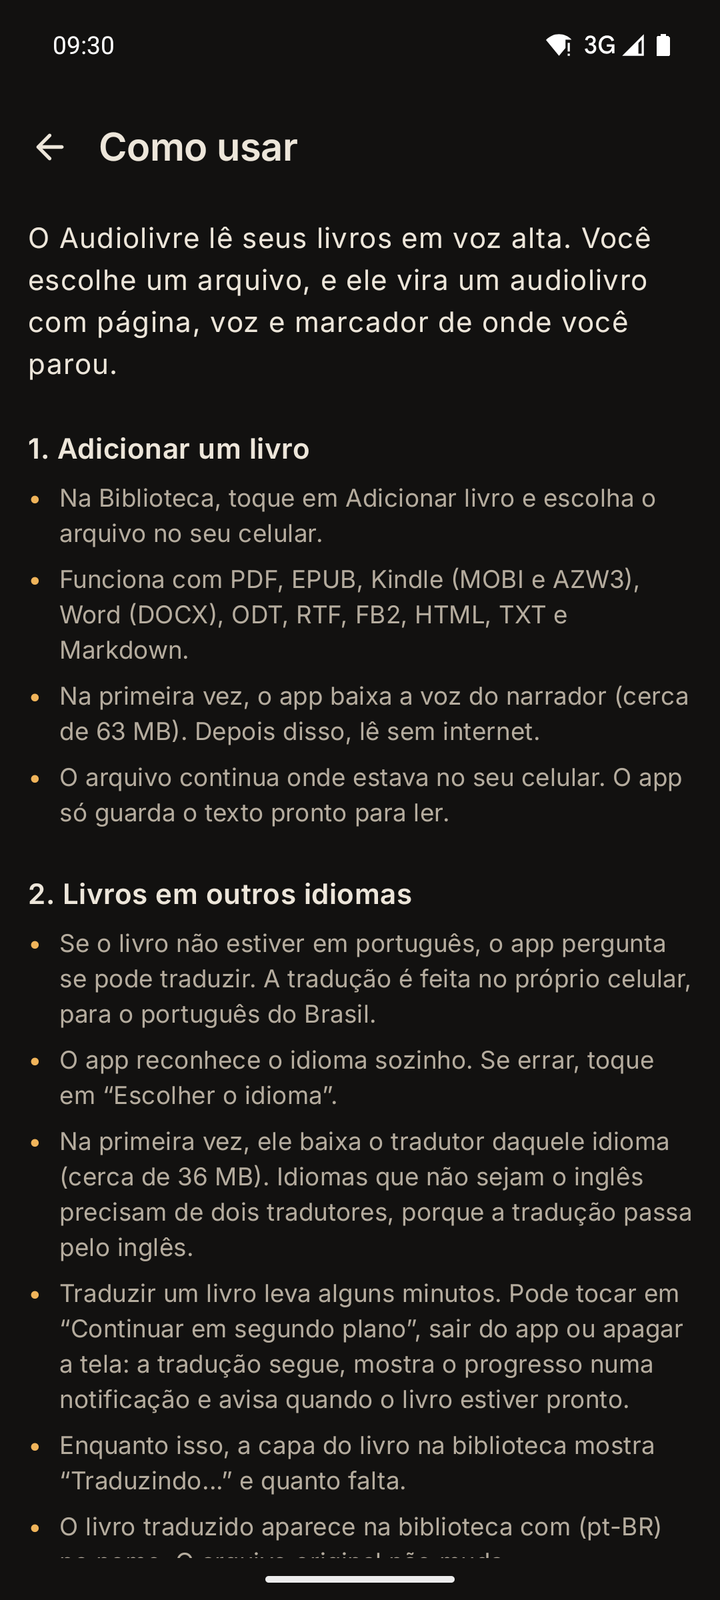
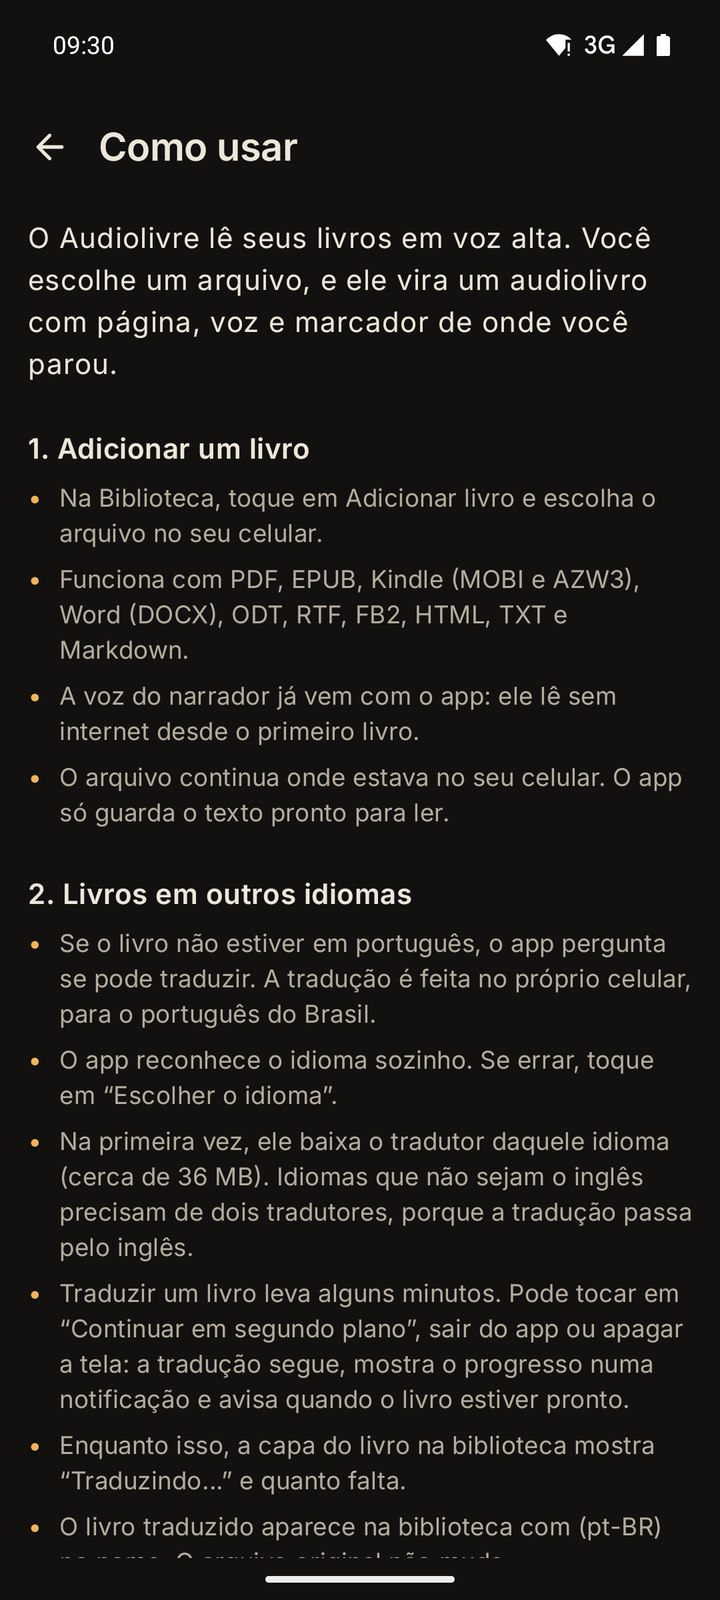
Audiolivre 1.1: voz do narrador embutida no app
O Faber agora vem dentro do APK, então o primeiro livro toca na hora,
sem download e sem internet. As outras vozes e os tradutores continuam
sendo baixados sob demanda.

- O build baixa o pacote do Faber da release tts-models do sherpa-onnx,
  confere o SHA-256 e embute o modelo (sem compressão, lido direto do
  APK) e os dados do eSpeak NG
- Os dados do eSpeak vão inteiros: com só o dicionário português o
  eSpeak quebra no Android, porque ele empresta palavras de outros
  idiomas
- Quem atualiza da 1.0 recupera os 61 MB do Faber baixado
- R8 ligado no release e tabelas pós-quânticas do BouncyCastle
  removidas: o código compilado caiu de ~30 MB para 3,5 MB
- Tela Voz, manual, README, CONTRIBUTING e docs/MODELS.md atualizados

Changed region(s): [[0.0917, 0.4062, 0.8556, 0.4688], [0.8861, 0.4062, 0.9167, 0.4375]]

diff --git a/app/src/main/java/io/github/fanti1/audiolivre/tts/ModelDownloader.kt b/app/src/main/java/io/github/fanti1/audiolivre/tts/ModelDownloader.kt
@@ -21,8 +21,8 @@ class ModelDownloader(private val context: Context) {
     fun voiceDir(voice: VoiceModel): File =
         File(context.filesDir, "tts/${voice.id}")
 
-    // The espeak-ng pronunciation data ships inside every voice archive and is identical, so the first voice
-    // installed keeps it for all of them: 18 MB once instead of 18 MB per voice.
+    // The espeak-ng pronunciation data is the same for every voice, so one copy serves all of them. It comes with
+    // the app (18 MB); the copy inside each downloaded archive is thrown away.
     fun sharedDataDir(): File = File(context.filesDir, "tts/${VoiceModels.SHARED_DATA_DIR}")
 
     val voicesDir: File get() = File(context.filesDir, "tts")
@@ -31,7 +31,35 @@ class ModelDownloader(private val context: Context) {
 
     // A model split across several files is only usable once every file is extracted, so a marker
     // written last (not the presence of any one file) decides whether the download finished.
-    fun isDownloaded(voice: VoiceModel): Boolean = File(voiceDir(voice), COMPLETE_MARKER).exists()
+    fun isDownloaded(voice: VoiceModel): Boolean = voice.bundled || File(voiceDir(voice), COMPLETE_MARKER).exists()
+
+    // espeak-ng only reads its data from a real folder, so the APK's copy is unpacked once before the first voice
+    // loads. All of it: the Portuguese dictionary hands words to the English, French and Italian ones, and
+    // espeak-ng crashes on Android when one of those is missing. Data an earlier version kept from a downloaded
+    // voice is the same and stays. Those versions also downloaded the voices that now ship in the APK, which only
+    // take space now.
+    fun ensureSharedData() = synchronized(sharedDataLock) {
+        val shared = sharedDataDir()
+        val assetDir = "${VoiceModels.ASSETS_DIR}/${VoiceModels.SHARED_DATA_DIR}"
+        if (context.assets.list(assetDir).orEmpty().any { !File(shared, it).exists() }) {
+            val partial = File(voicesDir, "${VoiceModels.SHARED_DATA_DIR}.part")
+            partial.deleteRecursively()
+            copyAssets(assetDir, partial)
+            shared.deleteRecursively()
+            if (!partial.renameTo(shared)) throw IOException("Não foi possível instalar os dados de pronúncia")
+        }
+        VoiceModels.ALL.filter { it.bundled }.forEach { voiceDir(it).deleteRecursively() }
+    }
+
+    private fun copyAssets(path: String, destination: File) {
+        val children = context.assets.list(path).orEmpty()
+        if (children.isEmpty()) {
+            destination.parentFile?.mkdirs()
+            context.assets.open(path).use { input -> destination.outputStream().use { input.copyTo(it) } }
+        } else {
+            children.forEach { copyAssets("$path/$it", File(destination, it)) }
+        }
+    }
 
     fun sizeOnDiskMb(voice: VoiceModel): Int =
         (voiceDir(voice).walkTopDown().filter { it.isFile }.sumOf { it.length() } / 1_000_000).toInt()
@@ -46,6 +74,7 @@ class ModelDownloader(private val context: Context) {
         onProgress: (InstallProgress) -> Unit = {},
     ): File = runInterruptible(Dispatchers.IO) {
         val dir = voiceDir(voice)
+        ensureSharedData()
         if (isDownloaded(voice)) return@runInterruptible dir
 
         var last: InstallProgress? = null
@@ -66,7 +95,7 @@ class ModelDownloader(private val context: Context) {
             extractTarBz2(tempArchive, dir, stripRootDir = voice.archiveRootDirName) { done, total ->
                 report(InstallStage.INSTALLING, done, total)
             }
-            shareEspeakData(dir)
+            File(dir, VoiceModels.SHARED_DATA_DIR).deleteRecursively()
             File(dir, COMPLETE_MARKER).createNewFile()
             EventLog.record("voz ${voice.id} baixada")
         } catch (e: Exception) {
@@ -79,21 +108,8 @@ class ModelDownloader(private val context: Context) {
         dir
     }
 
-    private fun shareEspeakData(voiceDir: File) {
-        val bundled = File(voiceDir, VoiceModels.SHARED_DATA_DIR)
-        if (!bundled.isDirectory) return
-        val shared = sharedDataDir()
-        if (shared.isDirectory && (shared.listFiles()?.isNotEmpty() == true)) {
-            bundled.deleteRecursively()
-        } else {
-            shared.parentFile?.mkdirs()
-            shared.deleteRecursively()
-            if (!bundled.renameTo(shared)) bundled.copyRecursively(shared, overwrite = true).also { bundled.deleteRecursively() }
-        }
-    }
-
     fun deleteVoice(voice: VoiceModel) {
-        voiceDir(voice).deleteRecursively()
+        if (!voice.bundled) voiceDir(voice).deleteRecursively()
     }
 
     private fun downloadWithProgress(
@@ -180,6 +196,9 @@ class ModelDownloader(private val context: Context) {
         const val COMPLETE_MARKER = ".complete"
     }
 }
+
+// One app-wide lock: the reader and the voice screen each have their own ModelDownloader.
+private val sharedDataLock = Any()
 
 enum class InstallStage { DOWNLOADING, INSTALLING }
 

diff --git a/app/src/main/java/io/github/fanti1/audiolivre/tts/PiperEngine.kt b/app/src/main/java/io/github/fanti1/audiolivre/tts/PiperEngine.kt
@@ -1,5 +1,6 @@
 package io.github.fanti1.audiolivre.tts
 
+import android.content.res.AssetManager
 import android.util.Log
 import io.github.fanti1.audiolivre.data.EventLog
 import com.k2fsa.sherpa.onnx.GenerationConfig
@@ -22,6 +23,8 @@ private const val MAX_LOADED_VOICES = 3
 class PiperEngine(
     private val voicesDir: File,
     private val sharedDataDir: File,
+    // Where the bundled voices are read from, straight out of the APK.
+    private val assets: AssetManager,
     private val numThreads: Int = 4,
     // ONNX Runtime session settings, as sherpa-onnx reads them from a "cpu:<file>" provider (see VoiceMemoryMode).
     private val sessionConfig: File? = null,
@@ -34,7 +37,8 @@ class PiperEngine(
 
     fun sampleRate(): Int = VoiceModels.PLAYBACK_SAMPLE_RATE
 
-    fun isReady(voiceId: String): Boolean = File(File(voicesDir, voiceId), COMPLETE_MARKER).isFile
+    fun isReady(voiceId: String): Boolean =
+        VoiceModels.byId(voiceId)?.bundled == true || File(File(voicesDir, voiceId), COMPLETE_MARKER).isFile
 
     // One synthesis at a time: a cancelled playback's last sentence may still be running natively when the next
     // playback starts, and two of them must not share a model.
@@ -71,14 +75,22 @@ class PiperEngine(
 
     private fun engineFor(voice: VoiceModel): OfflineTts {
         loaded[voice.id]?.let { return it }
-        val dir = File(voicesDir, voice.id)
-        val model = dir.listFiles { f -> f.extension == "onnx" }?.firstOrNull()
-            ?: error("voice ${voice.id} is missing its model file")
+        // A bundled voice's paths are inside the APK; the pronunciation data and the session settings are always
+        // real files, whichever way the model is read.
+        val (model, tokens) = if (voice.bundled) {
+            val dir = "${VoiceModels.ASSETS_DIR}/${voice.id}"
+            "$dir/${VoiceModels.BUNDLED_MODEL}" to "$dir/tokens.txt"
+        } else {
+            val dir = File(voicesDir, voice.id)
+            val file = dir.listFiles { f -> f.extension == "onnx" }?.firstOrNull()
+                ?: error("voice ${voice.id} is missing its model file")
+            file.absolutePath to File(dir, "tokens.txt").absolutePath
+        }
         val config = OfflineTtsConfig(
             model = OfflineTtsModelConfig(
                 vits = OfflineTtsVitsModelConfig(
-                    model = model.absolutePath,
-                    tokens = File(dir, "tokens.txt").absolutePath,
+                    model = model,
+                    tokens = tokens,
                     dataDir = sharedDataDir.absolutePath,
                     noiseScale = voice.noiseScale,
                     noiseScaleW = voice.noiseScaleW,
@@ -91,7 +103,7 @@ class PiperEngine(
             // The pauses a listener hears all come from Prosody instead.
             silenceScale = 1f,
         )
-        val tts = OfflineTts(config = config)
+        val tts = OfflineTts(assetManager = if (voice.bundled) assets else null, config = config)
         loaded[voice.id] = tts
         EventLog.record("voz ${voice.id} carregada na memória (${loaded.size} carregadas)")
         // LinkedHashMap in access order: the first entry is the one untouched for longest.

diff --git a/app/src/main/java/io/github/fanti1/audiolivre/ui/VoiceSettingsActivity.kt b/app/src/main/java/io/github/fanti1/audiolivre/ui/VoiceSettingsActivity.kt
@@ -267,8 +267,8 @@ private fun VoiceScreen(
         verticalArrangement = Arrangement.spacedBy(12.dp),
     ) {
         Text(
-            "Todas as vozes são brasileiras e leem no aparelho, sem internet. Cada uma ocupa cerca de 63 MB e só " +
-                "é baixada quando você escolhe.",
+            "Todas as vozes são brasileiras e leem no aparelho, sem internet. O Faber já vem com o app; as outras " +
+                "ocupam cerca de 63 MB cada e só são baixadas quando você escolhe.",
             style = MaterialTheme.typography.bodyMedium,
             color = MaterialTheme.colorScheme.onSurfaceVariant,
             modifier = Modifier.padding(top = 8.dp),
@@ -435,7 +435,7 @@ private fun VoiceCard(
                     }
                 }
 
-                is VoiceState.Ready -> if (!selected) {
+                is VoiceState.Ready -> if (!selected && !voice.bundled) {
                     Spacer(Modifier.height(4.dp))
                     TextButton(onClick = onDelete) { Text("Apagar do aparelho") }
                 }
@@ -499,7 +499,7 @@ private fun TranslatorCard(id: String, bytes: Long, onDelete: () -> Unit) {
 }
 
 private fun stateSuffix(state: VoiceState, voice: VoiceModel): String = when (state) {
-    is VoiceState.Ready -> " · baixada"
+    is VoiceState.Ready -> if (voice.bundled) " · vem com o app" else " · baixada"
     is VoiceState.Missing -> " · ${voice.approxSizeMb} MB para baixar"
     is VoiceState.Downloading -> " · baixando"
     is VoiceState.Failed -> " · ${state.message}"

diff --git a/app/src/main/java/io/github/fanti1/audiolivre/tts/VoiceModel.kt b/app/src/main/java/io/github/fanti1/audiolivre/tts/VoiceModel.kt
@@ -20,6 +20,8 @@ data class VoiceModel(
     // out both more natural and easier to understand. See VoiceModels.NOISE_SCALE.
     val noiseScale: Float = VoiceModels.NOISE_SCALE,
     val noiseScaleW: Float = VoiceModels.NOISE_SCALE_W,
+    // Ships inside the APK (assets/tts/<id>/, see app/build.gradle.kts): never downloaded, never deleted.
+    val bundled: Boolean = false,
 ) {
     val downloadUrl: String
         get() = "https://github.com/k2-fsa/sherpa-onnx/releases/download/tts-models/$archiveName"
@@ -36,6 +38,7 @@ object VoiceModels {
         archiveName = "vits-piper-pt_BR-faber-medium.tar.bz2", approxSizeMb = 63, sampleRate = 22050,
         gender = VoiceGender.MALE,
         pace = 1.0f,
+        bundled = true,
     )
     val CADU = VoiceModel(
         id = "cadu", displayName = "Cadu", description = "Masculina, mais grave",
@@ -85,6 +88,10 @@ object VoiceModels {
 
     // espeak-ng data ships inside every voice archive; one copy serves all of them.
     const val SHARED_DATA_DIR = "espeak-ng-data"
+
+    // Where the APK keeps the bundled voices and the espeak-ng data.
+    const val ASSETS_DIR = "tts"
+    const val BUNDLED_MODEL = "model.onnx"
 
     fun byId(id: String): VoiceModel? = ALL.firstOrNull { it.id == id }
 

diff --git a/app/src/androidTest/java/io/github/fanti1/audiolivre/PiperEngineTest.kt b/app/src/androidTest/java/io/github/fanti1/audiolivre/PiperEngineTest.kt
@@ -12,14 +12,14 @@ import org.junit.Assume.assumeTrue
 import org.junit.Test
 import org.junit.runner.RunWith
 
-// Speaks on the device with the voices that happen to be installed. Skipped when none are, so a machine without
-// downloaded voices still runs the rest of the suite.
+// Speaks on the device with the voices that are installed: the narrator's always is, since it ships in the APK.
+// The test that needs a second voice is skipped when none was downloaded.
 @RunWith(AndroidJUnit4::class)
 class PiperEngineTest {
 
     private val context = InstrumentationRegistry.getInstrumentation().targetContext
-    private val downloader = ModelDownloader(context)
-    private val engine = PiperEngine(downloader.voicesDir, downloader.sharedDataDir())
+    private val downloader = ModelDownloader(context).apply { ensureSharedData() }
+    private val engine = PiperEngine(downloader.voicesDir, downloader.sharedDataDir(), context.assets)
     private val sentence = "Naquela noite, a cidade parecia diferente."
 
     @Test

diff --git a/app/src/main/java/io/github/fanti1/audiolivre/data/SupportReport.kt b/app/src/main/java/io/github/fanti1/audiolivre/data/SupportReport.kt
@@ -59,7 +59,7 @@ object SupportReport {
             appendLine("Narrador: ${voice.narratorVoice}; personagens: ${if (voice.characterVoices) "${voice.maleCharacterVoice} e ${voice.femaleCharacterVoice}" else "desligado"}")
             appendLine("Velocidade: ${voice.speed}×")
             val voices = VoiceModels.ALL.filter { downloader.isDownloaded(it) }
-            appendLine("Vozes baixadas: ${voices.joinToString { "${it.id} (${downloader.sizeOnDiskMb(it)} MB)" }.ifEmpty { "nenhuma" }}")
+            appendLine("Vozes instaladas: ${voices.joinToString { "${it.id} (${if (it.bundled) "vem no app" else "${downloader.sizeOnDiskMb(it)} MB"})" }}")
             appendLine("Ritmo de síntese: %.2f ms de trabalho por ms de fala; %d threads".format(pace.ratio, SynthesisPace.threadsFor(cores)))
             appendLine("Áudio preparado à frente: ${pace.aheadMs / 1000} s; antes de começar: ${pace.startBufferMs / 1000} s")
             appendLine("Vezes que o áudio esvaziou: ${pace.underruns}")

diff --git a/app/src/androidTest/java/io/github/fanti1/audiolivre/VoiceMemoryTest.kt b/app/src/androidTest/java/io/github/fanti1/audiolivre/VoiceMemoryTest.kt
@@ -20,7 +20,7 @@ import java.io.File
 class VoiceMemoryTest {
 
     private val context = InstrumentationRegistry.getInstrumentation().targetContext
-    private val downloader = ModelDownloader(context)
+    private val downloader = ModelDownloader(context).apply { ensureSharedData() }
 
     private val sentences = listOf(
         "Era uma vez um livro.",
@@ -51,7 +51,7 @@ class VoiceMemoryTest {
         for ((label, config) in modes + modes) {
             repeat(2) { System.gc() }
             val baseline = rssMb()
-            val engine = PiperEngine(downloader.voicesDir, downloader.sharedDataDir(), numThreads = 4, sessionConfig = config)
+            val engine = PiperEngine(downloader.voicesDir, downloader.sharedDataDir(), context.assets, numThreads = 4, sessionConfig = config)
             engine.warmUp(voice!!.id)
             val loaded = rssMb()
             var peak = loaded

diff --git a/app/src/main/java/io/github/fanti1/audiolivre/service/PlaybackService.kt b/app/src/main/java/io/github/fanti1/audiolivre/service/PlaybackService.kt
@@ -123,9 +123,11 @@ class PlaybackService : LifecycleService() {
             val mode = VoiceMemoryMode.choose(memory.totalMem, activities.isLowRamDevice, pace)
             pace.useLean(mode == VoiceMemoryMode.LEAN, VoiceMemoryMode.LEAN_SLOWDOWN)
             EventLog.record("motor de voz: $threads threads, memória ${mode.name.lowercase()} (${memory.totalMem / 1_000_000} MB de RAM)")
+            downloader.ensureSharedData()
             PiperEngine(
                 downloader.voicesDir,
                 downloader.sharedDataDir(),
+                applicationContext.assets,
                 numThreads = threads,
                 sessionConfig = mode.configFile(downloader.voicesDir),
             )

diff --git a/app/src/main/java/io/github/fanti1/audiolivre/ui/ReaderActivity.kt b/app/src/main/java/io/github/fanti1/audiolivre/ui/ReaderActivity.kt
@@ -346,7 +346,8 @@ private fun VoiceDownloadScreen(progress: InstallProgress?, onCancel: () -> Unit
             if (installing) {
                 "Descompactando o modelo no aparelho. Falta pouco."
             } else {
-                "São ${VoiceModels.DEFAULT_NARRATOR.approxSizeMb} MB, só desta vez. Depois o app lê sem internet."
+                // Only a narrator chosen in place of the bundled one ever gets here.
+                "São cerca de 63 MB, só desta vez. Depois o app lê sem internet."
             },
             style = MaterialTheme.typography.bodyMedium,
             color = MaterialTheme.colorScheme.onSurfaceVariant,

diff --git a/app/src/main/java/io/github/fanti1/audiolivre/ui/ManualActivity.kt b/app/src/main/java/io/github/fanti1/audiolivre/ui/ManualActivity.kt
@@ -44,7 +44,7 @@ private fun ColumnScope.ManualContent() {
     PolicySection("1. Adicionar um livro") {
         Bullet("Na Biblioteca, toque em Adicionar livro e escolha o arquivo no seu celular.")
         Bullet("Funciona com PDF, EPUB, Kindle (MOBI e AZW3), Word (DOCX), ODT, RTF, FB2, HTML, TXT e Markdown.")
-        Bullet("Na primeira vez, o app baixa a voz do narrador (cerca de 63 MB). Depois disso, lê sem internet.")
+        Bullet("A voz do narrador já vem com o app: ele lê sem internet desde o primeiro livro.")
         Bullet("O arquivo continua onde estava no seu celular. O app só guarda o texto pronto para ler.")
     }
 

diff --git a/README.md b/README.md
@@ -65,7 +65,7 @@ PDF, EPUB, Kindle, Word e mais. Grátis e de código aberto.
 
 | | |
 |---|---|
-| 📵 **Tudo no celular** | A voz é gerada no próprio aparelho. Depois de baixar a voz uma vez, funciona sem internet, até no modo avião. |
+| 📵 **Tudo no celular** | A voz é gerada no próprio aparelho e a do narrador já vem com o app. Funciona sem internet desde o primeiro livro, até no modo avião. |
 | 🎭 **Narração de verdade** | Pausas de narrador entre frases, parágrafos e capítulos, e vozes diferentes para personagens homens e mulheres. |
 | 🗣 **Lê como se fala** | "R$ 1.500,00" vira "mil e quinhentos reais", "Dom Pedro II" vira "Dom Pedro segundo". Nada de voz robótica soletrando símbolos. |
 | 🌎 **Qualquer idioma vira português** | Abriu um livro em inglês, espanhol ou alemão? O app traduz para o português do Brasil, no celular. |
@@ -87,7 +87,7 @@ flowchart LR
     E --> F["🎧 A voz lê em voz alta<br/>e a página acompanha"]
 ```
 
-Você só escolhe o livro e aperta ▶. A internet é usada uma única vez, para baixar a voz e, se o livro for de outro idioma, o tradutor.
+Você só escolhe o livro e aperta ▶. A voz do narrador já vem com o app. A internet só é usada se você quiser outras vozes ou se o livro for de outro idioma, para baixar o tradutor.
 
 ---
 
@@ -189,18 +189,18 @@ PDFs são feitos para imprimir, não para ler em voz alta. O app arruma isso ant
 
 ## 🎤 Vozes
 
-Todas em português do Brasil. Você ouve uma amostra antes de baixar e escolhe quem narra e quem faz as vozes dos personagens.
+Todas em português do Brasil. Você ouve uma amostra de cada uma e escolhe quem narra e quem faz as vozes dos personagens.
 
 | Voz | Estilo | Tamanho |
 |---|---|---|
-| **Faber** | Masculina, clara e firme *(narrador padrão)* | ~63 MB |
+| **Faber** | Masculina, clara e firme *(narrador padrão)* | já vem com o app |
 | **Cadu** | Masculina, mais grave *(personagens masculinos)* | ~63 MB |
 | **Dii** | Feminina *(personagens femininas)* | ~64 MB |
 | **Jeff** | Masculina, jovem | ~63 MB |
 | **Miro** | Masculina, grave e pausada | ~64 MB |
 | **Edresson** | Masculina, gravação mais simples | ~63 MB |
 
-Na primeira vez que você abre um livro, o app baixa **só a voz do narrador**. As outras você baixa quando quiser, na tela **Voz**. Até lá, os personagens falam com a voz do narrador.
+O **Faber** já vem instalado, então o primeiro livro começa a tocar na hora, sem download. As outras vozes você baixa quando quiser, na tela **Voz**. Até lá, os personagens falam com a voz do narrador.
 
 ---
 
@@ -210,7 +210,7 @@ Na primeira vez que você abre um livro, o app baixa **só a voz do narrador**. 
 2. Abra o arquivo baixado. Se o Android pedir, permita **"Instalar apps desconhecidos"** para o navegador ou para o gerenciador de arquivos.
 3. Se aparecer um aviso do **Play Protect**, toque em **"Mais detalhes" → "Instalar mesmo assim"**. Isso acontece com qualquer app instalado fora da Play Store.
 4. Abra o Audiolivre, toque em **Adicionar livro** e escolha um arquivo.
-5. Espere a voz do narrador baixar (só na primeira vez) e toque em ▶.
+5. Toque em ▶. A voz do narrador já vem com o app, não precisa baixar nada.
 
 **Para atualizar:** baixe o APK novo e instale por cima. Seus livros, posições de leitura e vozes continuam lá.
 
@@ -222,8 +222,8 @@ Na primeira vez que você abre um livro, o app baixa **só a voz do narrador**. 
 |---|---|
 | **Android** | 8.0 (Oreo) ou mais novo |
 | **Celular** | Qualquer celular dos últimos anos (precisa de processador de 64 bits, o que quase todos têm) |
-| **Espaço** | ~53 MB do app, mais ~63 MB por voz baixada e ~18 MB de dados de pronúncia (uma vez só) |
-| **Internet** | Só para baixar as vozes e, se precisar, os tradutores. Depois, funciona 100% offline |
+| **Espaço** | ~112 MB do app, já com a voz do narrador, mais ~63 MB para cada outra voz que você baixar |
+| **Internet** | Não precisa para ler. Só para baixar outras vozes e, se precisar, os tradutores |
 
 ---
 
@@ -231,7 +231,7 @@ Na primeira vez que você abre um livro, o app baixa **só a voz do narrador**. 
 
 - **Sem conta, sem anúncios e sem coleta de dados.**
 - Seus livros não saem do celular. Tudo acontece no aparelho, inclusive a voz e a tradução, e o app fica fora do backup automático do Android.
-- A internet só é usada para baixar as vozes, que vêm do GitHub, e os tradutores, que vêm da Mozilla (a mesma do Firefox). Nenhum dado seu vai junto.
+- A internet só é usada para baixar outras vozes, que vêm do GitHub, e os tradutores, que vêm da Mozilla (a mesma do Firefox). Nenhum dado seu vai junto.
 - O app pede apenas:
   - **Internet**, para baixar as vozes e os tradutores;
   - **Notificações**, para mostrar os controles enquanto o livro toca e o andamento da tradução;
@@ -253,7 +253,7 @@ Clássicos em domínio público estão no <a href="https://www.gutenberg.org/bro
 <details>
 <summary><b>Preciso de internet para ouvir?</b></summary>
 <br />
-Só na primeira vez, para baixar a voz do narrador (cerca de 80 MB, contando os dados de pronúncia). Depois disso, o app lê sem internet, até no modo avião.
+Não. A voz do narrador já vem com o app, então ele lê sem internet desde o primeiro livro, até no modo avião. A internet só é usada se você quiser baixar outras vozes ou traduzir um livro de outro idioma.
 </details>
 
 <details>

diff --git a/docs/MODELS.md b/docs/MODELS.md
@@ -1,6 +1,11 @@
 # Vozes (Piper via sherpa-onnx)
 
-O Audiolivre usa vozes **Piper** (modelos VITS) em português do Brasil, executadas no celular pelo [sherpa-onnx](https://github.com/k2-fsa/sherpa-onnx). Cada voz é baixada sob demanda da release `tts-models` do sherpa-onnx e guardada em `filesDir/tts/<voz>/`. Um arquivo `.complete` marca que o download terminou. Os dados de pronúncia do eSpeak NG (~18 MB), que vêm dentro de cada pacote de voz, são guardados uma vez só e compartilhados entre todas as vozes. Depois do download, o app funciona sem internet.
+O Audiolivre usa vozes **Piper** (modelos VITS) em português do Brasil, executadas no celular pelo [sherpa-onnx](https://github.com/k2-fsa/sherpa-onnx).
+
+- **Faber (narrador padrão) vem dentro do APK**, em `assets/tts/faber/`. O modelo fica sem compressão e o sherpa-onnx lê direto do APK, sem cópia no disco. O pacote é baixado no build (`BundleNarratorVoice` em `app/build.gradle.kts`) e conferido pelo SHA-256.
+- **As outras vozes** são baixadas sob demanda da release `tts-models` do sherpa-onnx e guardadas em `filesDir/tts/<voz>/`. Um arquivo `.complete` marca que o download terminou.
+- **Pronúncia (eSpeak NG):** os dados (18 MB) vão no APK e, na primeira leitura, são copiados para `filesDir/tts/espeak-ng-data/`, porque o eSpeak só lê de uma pasta de verdade. Uma cópia serve a todas as vozes, e a que vem em cada voz baixada é descartada. Quem atualiza de uma versão anterior mantém os dados que já tinha (são os mesmos) e perde só o Faber baixado, que ficou redundante.
+- **Os dados vão inteiros, sem cortar idiomas.** O dicionário português manda algumas palavras para os dicionários de inglês, francês e italiano, e o italiano manda para outros. Num teste com só o dicionário português, o eSpeak derrubou o app no Android. No PC, o mesmo corte não deu erro, então não confie só em teste no PC para isso.
 
 O catálogo fica em `tts/VoiceModel.kt`:
 
@@ -13,7 +18,7 @@ O catálogo fica em `tts/VoiceModel.kt`:
 | Miro | masculina, grave e pausada | `vits-piper-pt_BR-miro-high` | 22 050 Hz |
 | Edresson | masculina, gravação mais simples | `vits-piper-pt_BR-edresson-low` | 16 000 Hz (convertida para 22 050 Hz) |
 
-Ao abrir o primeiro livro, só a voz do narrador é baixada. As vozes dos personagens são baixadas na tela **Voz**. Até lá, os personagens falam com a voz do narrador.
+Com o Faber de narrador, nenhum livro espera download. Se outro narrador for escolhido e ainda não estiver baixado, ele é baixado ao abrir o livro. As vozes dos personagens são baixadas na tela **Voz**. Até lá, os personagens falam com a voz do narrador.
 
 ## Ajustes
 
